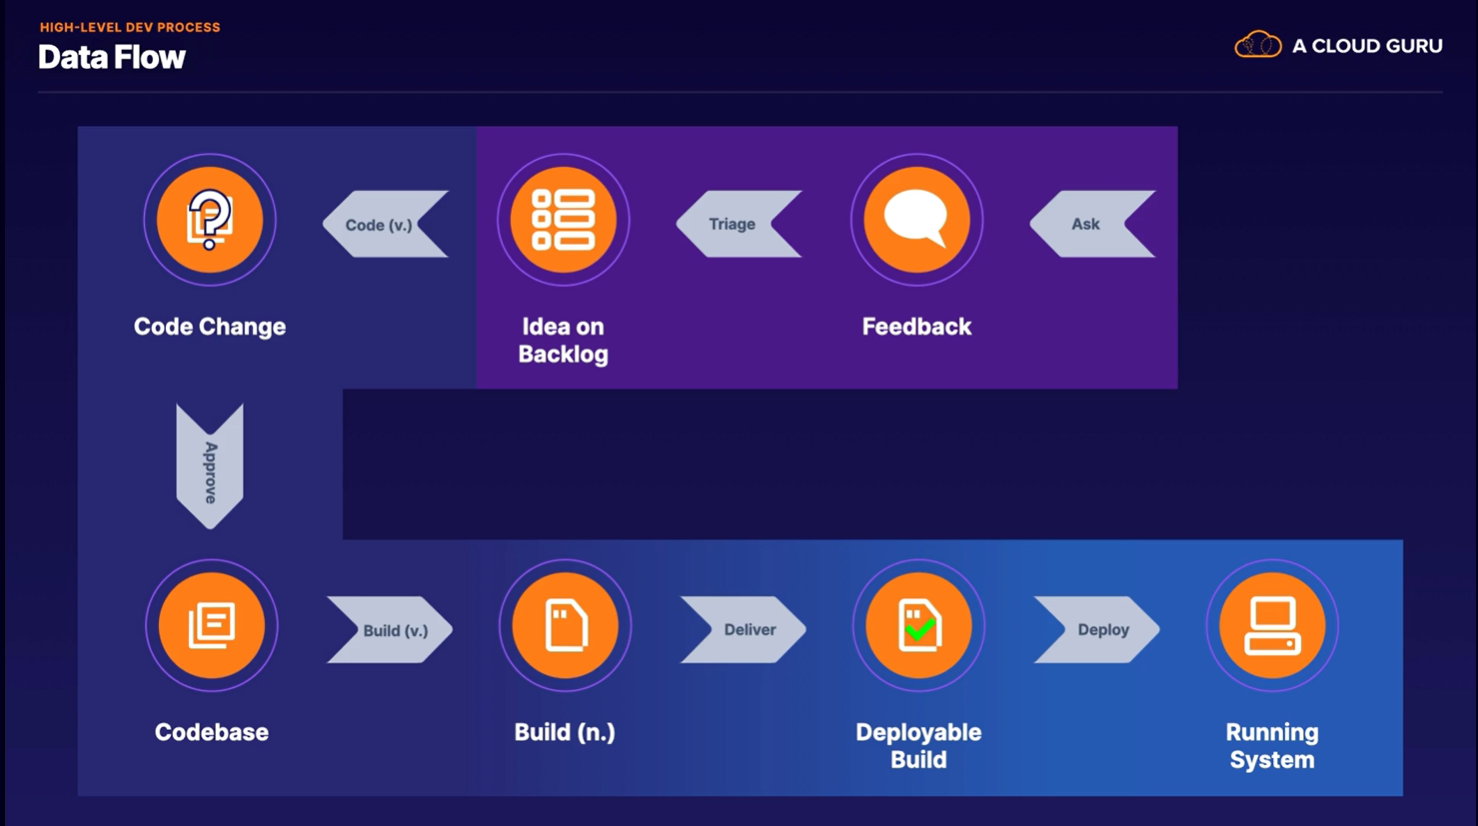
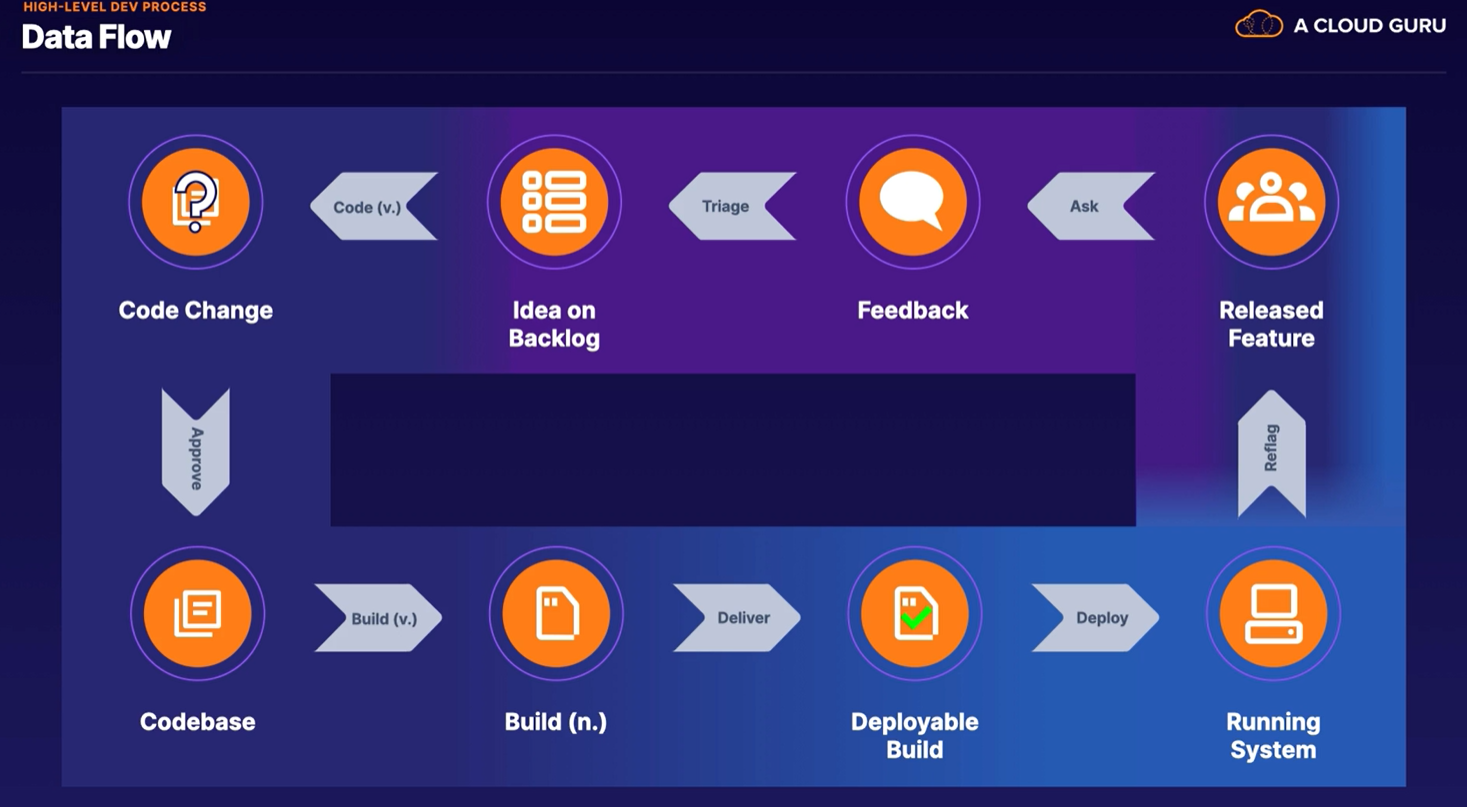
update

diff --git a/README.md b/README.md
@@ -102,6 +102,6 @@ Chapter 3: Foundation and Concepts
      - code base 
 
 
-<img src="https://github.com/cgpeanut/GCP-DevOps-SRE-Part1/blob/master/images/gcp-exams.png" alt="IMAGE ALT TEXT HERE" width="450" height="250" /></a>
+<img src="https://github.com/cgpeanut/GCP-DevOps-SRE-Part1/blob/master/images/date-flow.png" alt="IMAGE ALT TEXT HERE" width="450" height="250" /></a>
 
 ```
